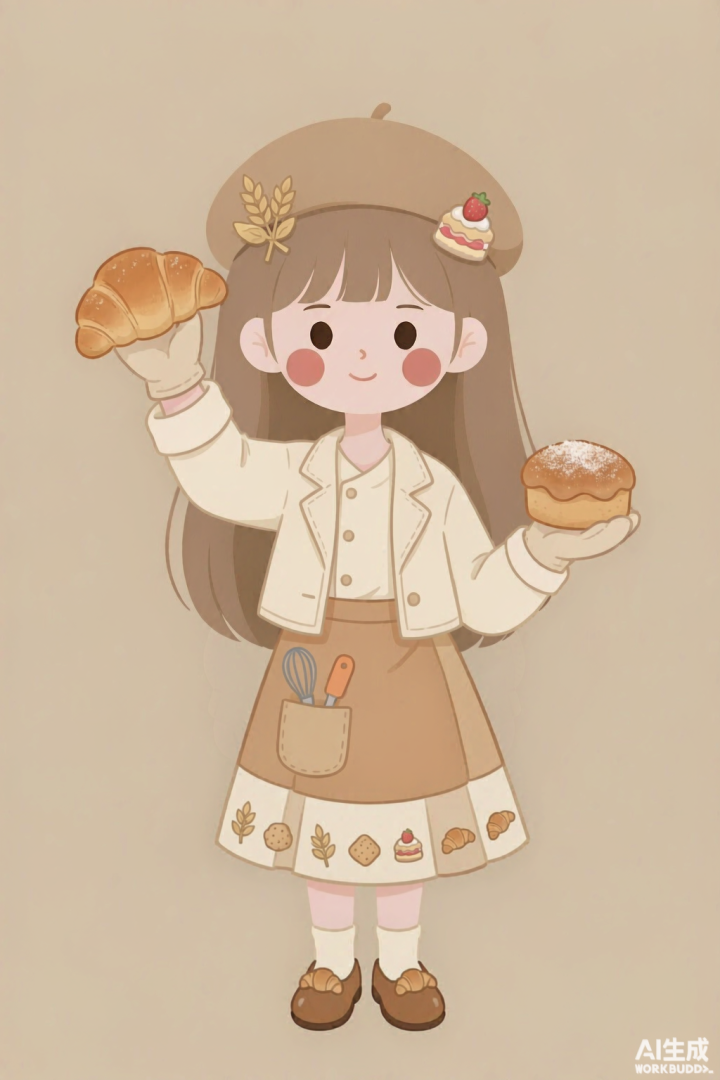
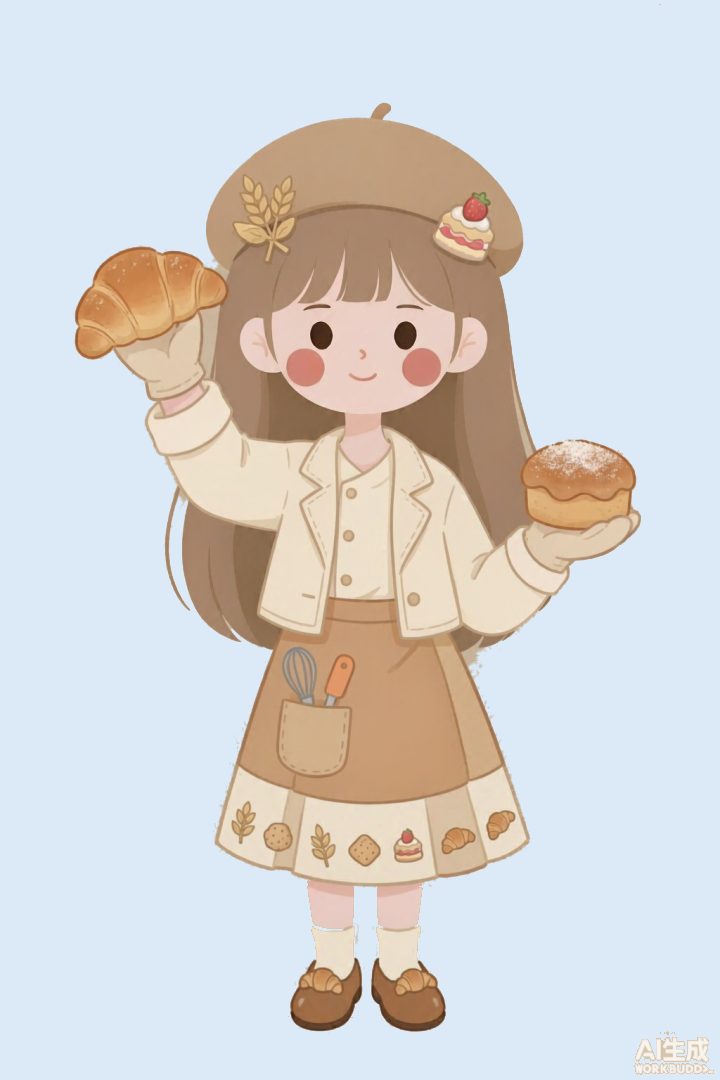
style: 抠出画像人物并改用浅蓝色背景

diff --git a/island-hop/standalone.html b/island-hop/standalone.html
@@ -104,9 +104,8 @@ button{color:inherit;-webkit-appearance:none;appearance:none;cursor:pointer}
 .ring::after{content:"";position:absolute;inset:5px;border-radius:50%;border:1px solid currentColor;opacity:.22}
 .ring span{font-weight:700;letter-spacing:.08em;line-height:1}
 .mentor-avatar{display:block;flex:none;object-fit:cover;border-radius:50%;border:1px solid rgba(110,150,194,.35);background:#EAF1F8}
-.portrait-stage{position:relative;border-radius:18px;overflow:hidden;background:linear-gradient(160deg,#EAF1F8,#DCE7F2)}
+.portrait-stage{position:relative;border-radius:18px;overflow:hidden;background:#DCEAF7}
 .portrait-stage img{display:block;width:100%;height:auto}
-.portrait-stage::after{content:"";position:absolute;inset:0;pointer-events:none;background:linear-gradient(160deg,rgba(198,216,234,.24),rgba(110,150,194,.14));mix-blend-mode:color}
 .look-strip{display:flex;gap:9px;overflow-x:auto;padding:4px 2px 8px;-webkit-overflow-scrolling:touch}
 .look-strip::-webkit-scrollbar{display:none}
 .look-tile{flex:none;display:flex;flex-direction:column;align-items:center;gap:6px;min-width:62px;padding:10px 7px;border:1px solid var(--line);border-radius:16px;background:#fff;color:var(--ink);transition:transform .15s,border-color .15s,background .15s}
